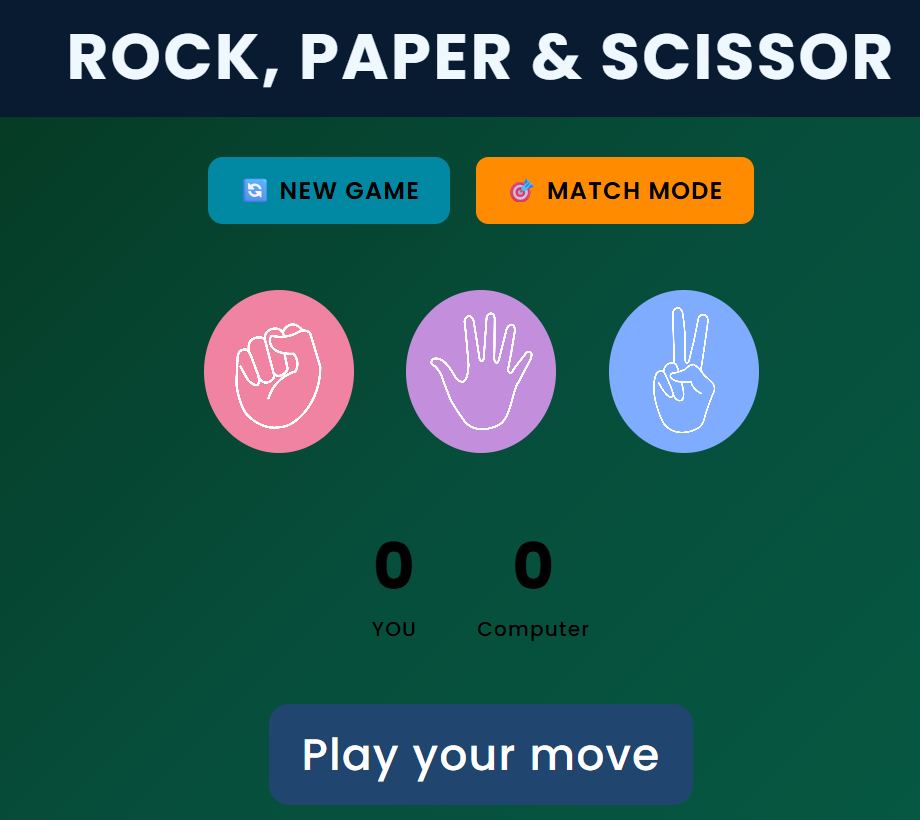
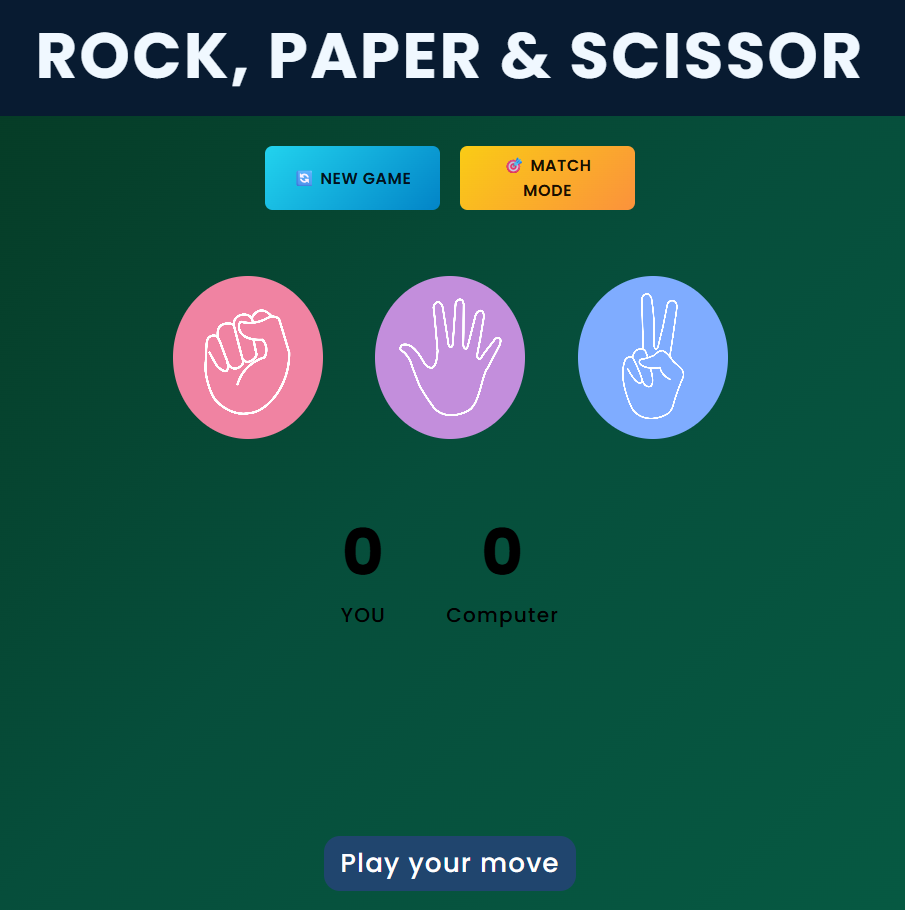
Updated

diff --git a/style.css b/style.css
@@ -14,6 +14,7 @@
 body {
     background: linear-gradient(135deg, #052e16, #064e3b, #065f46);
     min-height: 100vh;
+    overflow: hidden;
 }
 
 /* ================= GAME TITLE ================= */
@@ -33,7 +34,8 @@ h1 {
     display: flex;
     justify-content: center;
     align-items: center;
-    flex-wrap: wrap;              /* Responsive wrapping */
+    flex-wrap: wrap;
+    /* Responsive wrapping */
     margin-top: 3rem;
     gap: 2rem;
 }
@@ -53,7 +55,8 @@ h1 {
 .choice:hover {
     cursor: pointer;
     background-color: black;
-    transform: scale(1.1);        /* Small zoom effect */
+    transform: scale(1.1);
+    /* Small zoom effect */
 }
 
 /* ================= CHOICE IMAGES ================= */
@@ -69,7 +72,8 @@ img {
     display: flex;
     justify-content: center;
     align-items: center;
-    flex-wrap: wrap;              /* Responsive layout */
+    flex-wrap: wrap;
+    /* Responsive layout */
     margin-top: 3rem;
     gap: 3rem;
 }
@@ -88,18 +92,27 @@ img {
 
 /* ================= MESSAGE DISPLAY ================= */
 #msg-container {
-    margin-top: 3rem;
+    position: fixed;
+    left: 50%;
+    bottom: 1rem;
+    transform: translateX(-50%);
+    z-index: 5;
+    width: 100%;
+    pointer-events: none;
 }
 
+
 #msg {
-    font-size: 2.2rem;
+    font-size: 1.3rem;
     background-color: #225a9b;
     color: aliceblue;
     display: inline-block;
-    padding: 0.9rem 1.6rem;
-    border-radius: 1rem;
+    padding: 0.4rem 0.8rem;
+    border-radius: 0.8rem;
     letter-spacing: 1px;
     font-weight: 500;
+    pointer-events: auto;
+    max-width: 90%;
 }
 
 /* ================= IMAGE GROUP ================= */
@@ -166,68 +179,79 @@ img {
 @media (max-width: 480px) {
     h1 {
         font-size: 2rem;
-        line-height: 3rem;
-        padding: 0.5rem;
+        font-size: 1.5rem;
+        line-height: 2.2rem;
+        padding: 0.3rem;
+        letter-spacing: 1px;
     }
 
     .choices {
         flex-direction: column;
-        gap: 1.5rem;
+        gap: 1rem;
+        margin-top: 1rem;
     }
 
     .choice {
-        height: 100px;
-        width: 90px;
-    }
-
-    img {
-        height: 90px;
+        height: 80px;
         width: 80px;
     }
 
-    #game {
-        flex-direction: column;
-        gap: 1.5rem;
+    img {
+        height: 70px;
+        width: 70px;
     }
 
+    #game {
+    display: flex;
+    justify-content: space-around;
+    align-items: center;
+    margin-top: 1.2rem;
+    gap: 1rem;
+}
     .score {
         font-size: 1.3rem;
     }
 
     #userscore,
     #compscore {
-        font-size: 2rem;
+        font-size: 1.6rem;
+    }
+
+    .score p {
+        font-size: 0.9rem;
     }
 
     #msg {
         font-size: 1.8rem;
         padding: 0.5rem;
+        font-size: 1.6rem;
+        padding: 0.5rem 0.9rem;
+    }
+
+    .video1,
+    .video1 video {
+        width: 180px;
+        height: 180px;
     }
 }
 
 /* ================= CONTROL BUTTONS ================= */
 .controls {
-    margin-top: 2rem;
+    margin-top: 1.5rem;
+    display: flex;
+    justify-content: center;
+    gap: 1rem;
+    flex-wrap: wrap;
 }
 
-/* New Game / Reset Button */
-#resetBtn {
-    padding: 0.8rem 1.5rem;
-    font-size: 1.2rem;
-    border: none;
-    border-radius: 12px;
-    background-color: #0189a4;
-    color: #000000;
-    cursor: pointer;
-    transition: background-color 0.2s ease;
-    letter-spacing: 1px;
-    font-weight: 600;
-    text-transform: uppercase;
+.controls button {
+    flex: 1 1 120px;
+    max-width: 140px;
+    padding: 0.5rem 0.6rem;
+    font-size: 0.9rem;
 }
 
-#resetBtn:hover {
-    background-color: #015969;
-}
+
 
 /* ================= MATCH MODE MODAL ================= */
 .modal {
@@ -285,21 +309,52 @@ img {
     display: none;
 }
 
-/* ================= MATCH MODE BUTTON ================= */
+/* ================= GAME CONTROL BUTTONS (SLIM & MODERN) ================= */
+#resetBtn,
 #matchBtn {
-    margin-left: 1rem;
-    padding: 0.8rem 1.5rem;
-    font-size: 1.2rem;
-    border: none;
-    border-radius: 10px;
-    background-color: darkorange;
-    color: rgb(0, 0, 0);
-    cursor: pointer;
-    letter-spacing: 1px;
+    padding: 0.35rem 0.9rem;          /* 🔥 slim height */
+    font-size: 0.8rem;               /* 🔥 smaller text */
     font-weight: 600;
+    letter-spacing: 0.4px;
+    border-radius: 6px;              /* 🔥 less bulky corners */
+    border: none;
+    cursor: pointer;
     text-transform: uppercase;
+    background-clip: padding-box;
+    transition: transform 0.12s ease, box-shadow 0.12s ease;
 }
 
+/* Reset button style */
+#resetBtn {
+    background: linear-gradient(135deg, #22d3ee, #0284c7);
+    color: #02131d;
+}
+
+/* Match button style */
+#matchBtn {
+    background: linear-gradient(135deg, #facc15, #fb923c);
+    color: #1a0f00;
+}
+
+/* Hover / Tap feedback */
+#resetBtn:hover,
 #matchBtn:hover {
-    background-color: rgb(255, 170, 13);
+    transform: scale(0.96);
+    box-shadow: 0 3px 8px rgba(0, 0, 0, 0.25);
+}
+
+/* Active (tap) effect — feels like a real game */
+#resetBtn:active,
+#matchBtn:active {
+    transform: scale(0.93);
+}
+
+/* Mobile fine tuning */
+@media (max-width: 480px) {
+    #resetBtn,
+    #matchBtn {
+        padding: 0.32rem 0.75rem;
+        font-size: 0.75rem;
+        border-radius: 5px;
+    }
 }

diff --git a/README.md b/README.md
@@ -24,7 +24,7 @@
 <p>
   <em>
     Play the game live in your browser:<br>
-    🔗 <a href="https://cheerful-dusk-1274ed.netlify.app/"><b>Play Rock Paper Scissor</b></a>
+    🔗 <a href="https://benevolent-liger-849fb2.netlify.app/"><b>Play Rock Paper Scissor</b></a>
   </em>
 </p>
 
